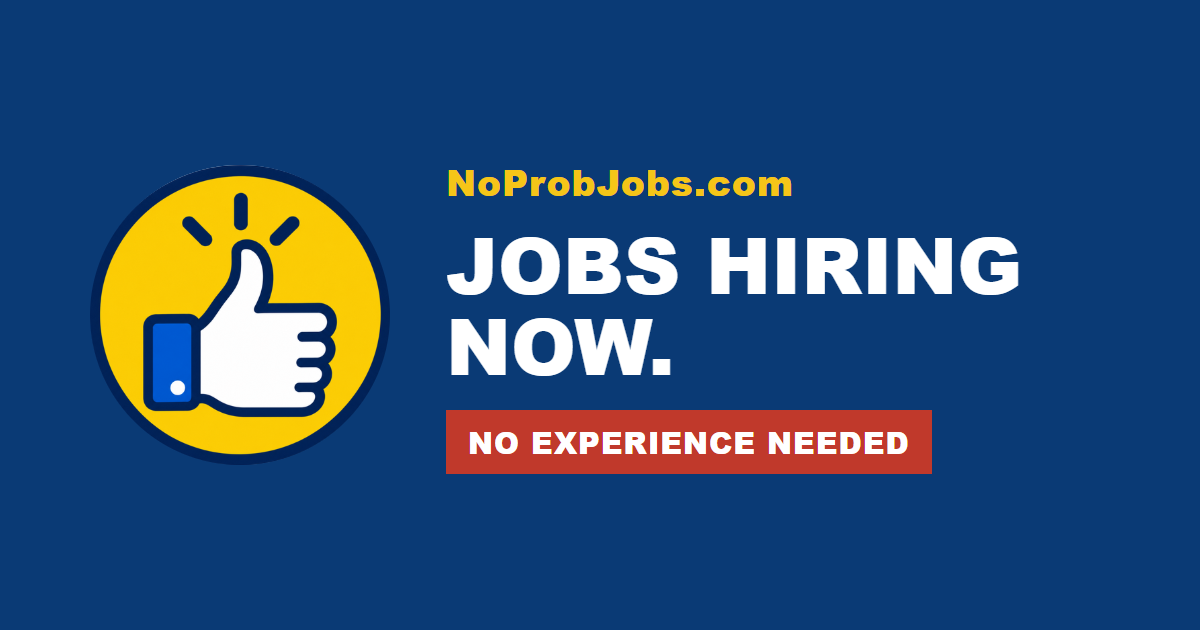
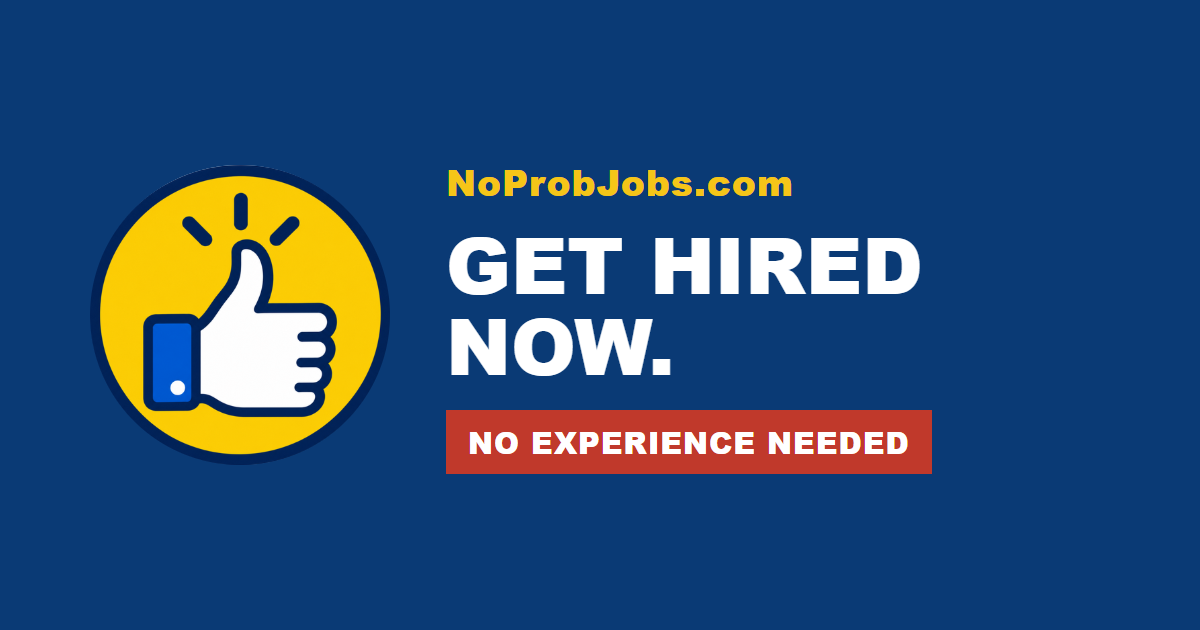
site: post-launch fixes 1–3 (lead line, pay burst, expired page)
Item 1 — unify the lead line to "Get Hired Now" (Mr. Richardson's call): OG image
artwork + landing title/og:title/twitter:title (pageMeta) + the /jobs/ browse title
(build.mjs) + its on-page H1 (board.js). No "Jobs Hiring Now" slogan remains. On-page
"Companies hiring now." hero and meta-description prose left as-is per direction.

Item 2 — pay burst uses p95 of stated hourly pay, not p75 (landing.js): "up to $36"
(was $30), only 4.8% exceed vs 22.7%. Immune to the tail (set still runs to ~$86/hr).
Stated-hourly only, rounds up, derived at bake.

Item 3 — expired 410 + retired 404 get real copy + a "Get job alerts" CTA + a route
back (build.mjs gone(), 404.html). Option A: the modal stays email-only (change #1) but
the expired job's category+city ride the alerts link and are captured silently via the
RPC's still-present p_categories/p_location (board.js). Verified E2E. Expired carries no
JobPosting JSON-LD.

Changed region(s): [[0.37, 0.3619, 0.8633, 0.4825]]

diff --git a/noprobjobs/board.js b/noprobjobs/board.js
@@ -242,6 +242,18 @@ class BoardApp extends React.Component {
     this._mql.addEventListener("change", this._onMql);
     const urlState = this.readUrl();
     this.setState(urlState);
+    // Arrivals from an expired/retired page carry ?alerts=1 (+ the job's cat/city): open the
+    // email-only modal and stash the context so submitAlerts captures it silently (change #1
+    // kept the RPC's category/location args; only the form stopped collecting them). Opened via
+    // setState post-mount, so baked pages (which never carry ?alerts) keep baked/mounted parity.
+    try {
+      const ap = new URL(window.location.href).searchParams;
+      if (ap.get("alerts") === "1") {
+        this._alertCtx = { cat: ap.get("cat") || null, city: ap.get("city") || null };
+        track({ event: "job_alert_open", source_page: sourcePage() });
+        this.setState({ alertsOpen: true, alertPhase: "form", alertError: "" });
+      }
+    } catch (e) {}
     // Alert-intent weighting (see landing.js): a completed search WITH a location is full
     // intent, so arriving on the board with a location seeds the counter by one; job views
     // (open()) add the rest. The prompt is only ever evaluated inside open(), so the modal
@@ -340,7 +352,9 @@ class BoardApp extends React.Component {
     // capture_alert is a fixed 4-arg RPC (no defaults): the wire keeps the now-empty
     // p_categories/p_location (defaulted in supabase.js) — the form stopped collecting them,
     // the columns/signature are untouched (change #1).
-    Promise.all([SB.captureAlert({ email, source: "board" }), wait])
+    const ctx = this._alertCtx || null;   // set when arriving from an expired/retired page (?alerts=1)
+    Promise.all([SB.captureAlert({ email, source: ctx ? "expired" : "board",
+        categories: ctx && ctx.cat ? [ctx.cat] : [], location: ctx ? ctx.city : null }), wait])
       .then(() => { track({ event: "email_capture_submit", source_page: sourcePage() }); this.writeFlag(); this.setState({ alertPhase: "done" }); })
       .catch(() => this.setState({ alertPhase: "form", alertError: "Couldn’t save that — please try again." }));
   };
@@ -552,7 +566,7 @@ class BoardApp extends React.Component {
       resultLabel: total === 1 ? "1 job found" : total + " jobs found",
       browseH1: st.stateCtx
         ? (cats.length === 1 ? PM.categoryH1(cats[0], st.stateCtx) : PM.stateH1(st.stateCtx))
-        : "Jobs hiring now, no experience needed",
+        : "Get hired now, no experience needed",
       isLoading: loading, isList: !loading && total > 0, realEmpty, locEmpty, genericEmpty, locEmptyName,
       elsewhereJobs, hasElsewhere: elsewhereJobs.length > 0, elsewhereHeading,
       emptyLine, emptyFix,

diff --git a/noprobjobs/404.html b/noprobjobs/404.html
@@ -21,7 +21,7 @@
   h1{ font-family:"Chivo",sans-serif; font-weight:800; font-size:30px; line-height:1.14; margin:18px 0 10px; letter-spacing:-0.01em; }
   p{ font-size:16.5px; line-height:1.6; color:var(--muted); margin:0 0 22px; max-width:46ch; }
   a.cta{ display:inline-flex; align-items:center; min-height:46px; padding:0 20px; border-radius:3px;
-    background:var(--ink); color:#fff; text-decoration:none; font-weight:700; font-size:15.5px; }
+    background:var(--accent); color:#fff; text-decoration:none; font-weight:700; font-size:15.5px; }
   a.alt{ display:inline-block; margin-left:14px; color:var(--ink); font-weight:600; font-size:15px; }
 </style>
 </head>
@@ -31,9 +31,10 @@
 <!-- End Google Tag Manager (noscript) -->
 <main>
   <span class="badge">No experience needed</span>
-  <h1>This job is no longer listed.</h1>
-  <p>It may have been filled, or the employer removed the posting. Plenty of other companies are hiring right now with no experience required.</p>
-  <a class="cta" href="/jobs/">Browse all jobs</a>
+  <h1>This job is no longer available.</h1>
+  <p>It may have been filled, or the posting was removed. Sign up for job alerts and we’ll email you when similar jobs are posted.</p>
+  <a class="cta" href="/jobs/?alerts=1">Get job alerts</a>
+  <a class="alt" href="/jobs/">Browse all jobs</a>
   <a class="alt" href="/washington/">Jobs in Washington</a>
 </main>
 </body>

diff --git a/noprobjobs/landing.js b/noprobjobs/landing.js
@@ -133,7 +133,10 @@ class LandingApp extends React.Component {
       .map((r) => r.salary_max || r.salary_min).filter((v) => v > 0)
       .sort((a, b) => a - b);
     if (rates.length < 4) return null;
-    return Math.ceil(rates[Math.floor(0.75 * (rates.length - 1))]);
+    // p95 of stated hourly pay (was p75): close to the true ceiling so "up to" is honest,
+    // but immune to a lone extreme (the set still runs to ~$86/hr). Rounds up; derived every
+    // bake from the live set, never hardcoded.
+    return Math.ceil(rates[Math.floor(0.95 * (rates.length - 1))]);
   }
   _topCats(){
     if (this.state.recs === null) return [];

diff --git a/noprobjobs/data/pageMeta.js b/noprobjobs/data/pageMeta.js
@@ -48,7 +48,7 @@ export function jobDescription(r){
   return d;
 }
 
-export function landingTitle(){ return BRAND + " — Jobs Hiring Now, No Experience Needed"; }
+export function landingTitle(){ return BRAND + " — Get Hired Now, No Experience Needed"; }
 export function landingDescription(){ return stateName(MARKET) + " jobs hiring now, no experience required. " + DIFF; }
 
 /* The Washington lander (change #2): the landing page served at /washington-jobs, whose only
